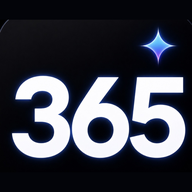
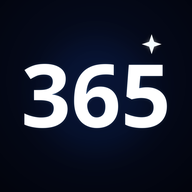
V

diff --git a/index.html b/index.html
@@ -8,14 +8,14 @@
   <meta name="apple-mobile-web-app-capable" content="yes">
   <meta name="apple-mobile-web-app-status-bar-style" content="default">
   <meta name="apple-mobile-web-app-title" content="LuckyNumber">
-  <title>LuckyNumber Pro V6.4.7</title>
+  <title>LuckyNumber Pro V6.6.0</title>
   <link rel="manifest" href="manifest.json">
   <link rel="apple-touch-icon" sizes="180x180" href="icons/apple-touch-icon.png">
   <link rel="icon" type="image/png" sizes="32x32" href="icons/favicon-32.png">
-  <link rel="stylesheet" href="style.css?v=6520">
+  <link rel="stylesheet" href="style.css?v=6600">
 </head>
 <body>
   <div id="app"></div>
-  <script src="app.js?v=6520"></script>
+  <script src="app.js?v=6600"></script>
 </body>
 </html>

diff --git a/sw.js b/sw.js
@@ -1,4 +1,4 @@
-const CACHE = "lucky-number-v6-5-9-today-ai-weight-20260808";
+const CACHE = "lucky-number-v6-6-0-centered-sharp-icon-20260808";
 const ASSETS = ["./", "./index.html", "./style.css", "./app.js", "./manifest.json", "./icons/icon-192.png", "./icons/icon-512.png", "./icons/apple-touch-icon.png", "./icons/favicon-32.png"];
 self.addEventListener("install", e => e.waitUntil(caches.open(CACHE).then(c => c.addAll(ASSETS)).then(()=>self.skipWaiting())));
 self.addEventListener("activate", e => e.waitUntil(caches.keys().then(keys=>Promise.all(keys.filter(k=>k!==CACHE).map(k=>caches.delete(k)))).then(()=>self.clients.claim())));
